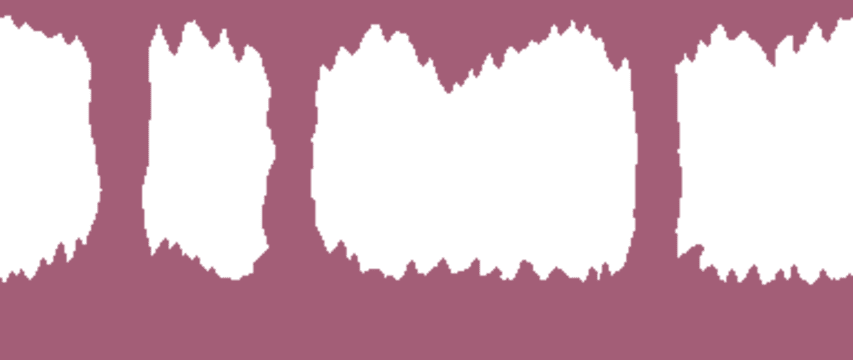
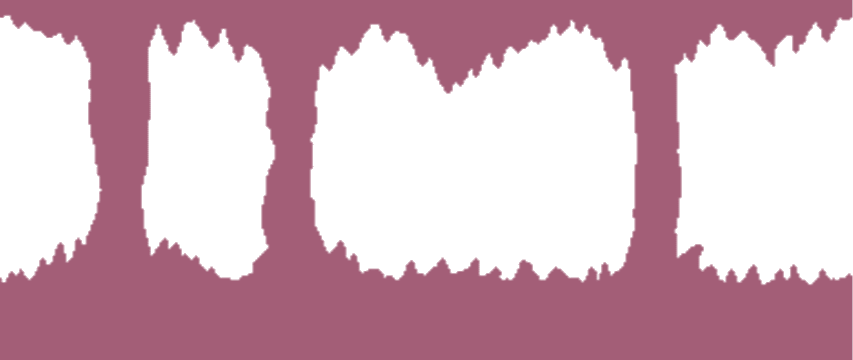
Level 2 BG white removed

diff --git a/src/game.py b/src/game.py
@@ -57,7 +57,7 @@ class Game:
         self.camera_y = 0.0
 
         # World content
-        self.level_index = 1
+        self.level_index = 1   
         self.level: Level | None = None
         self.player = None
 